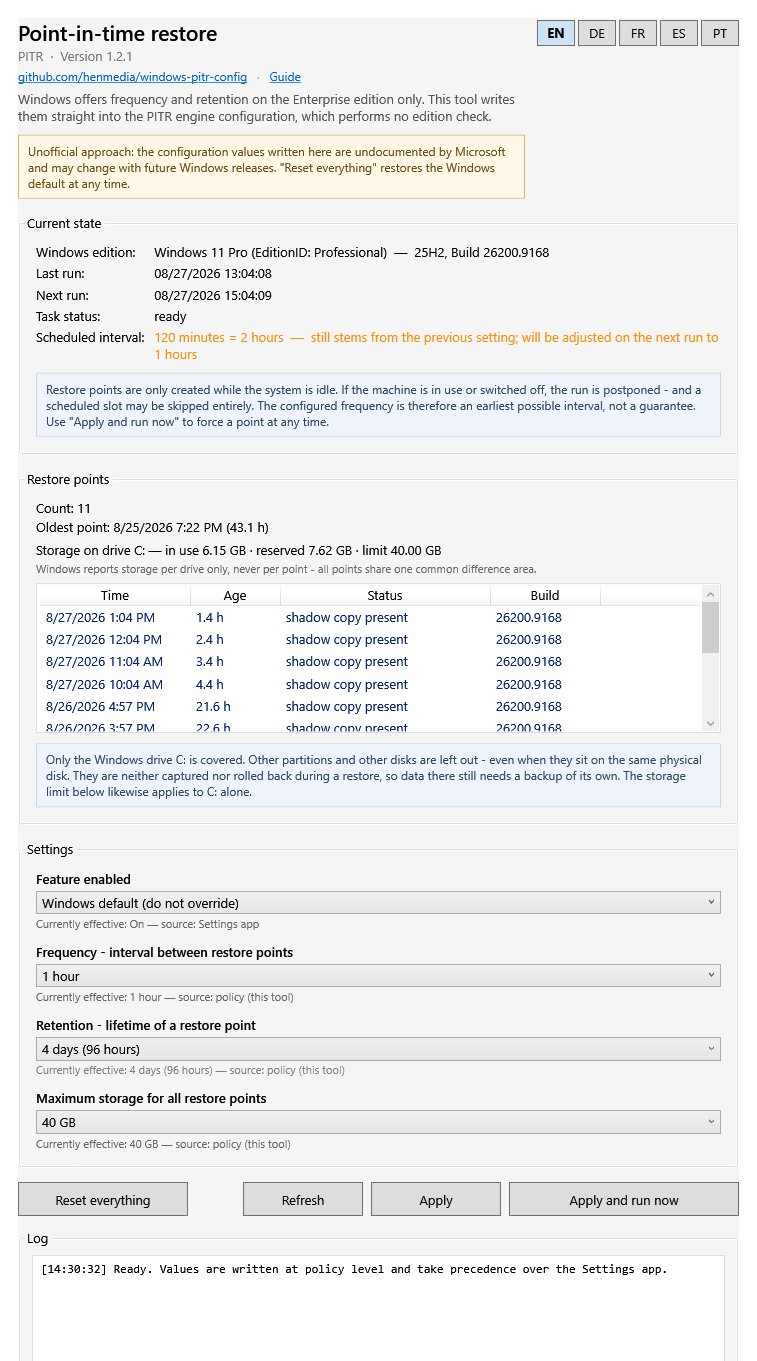
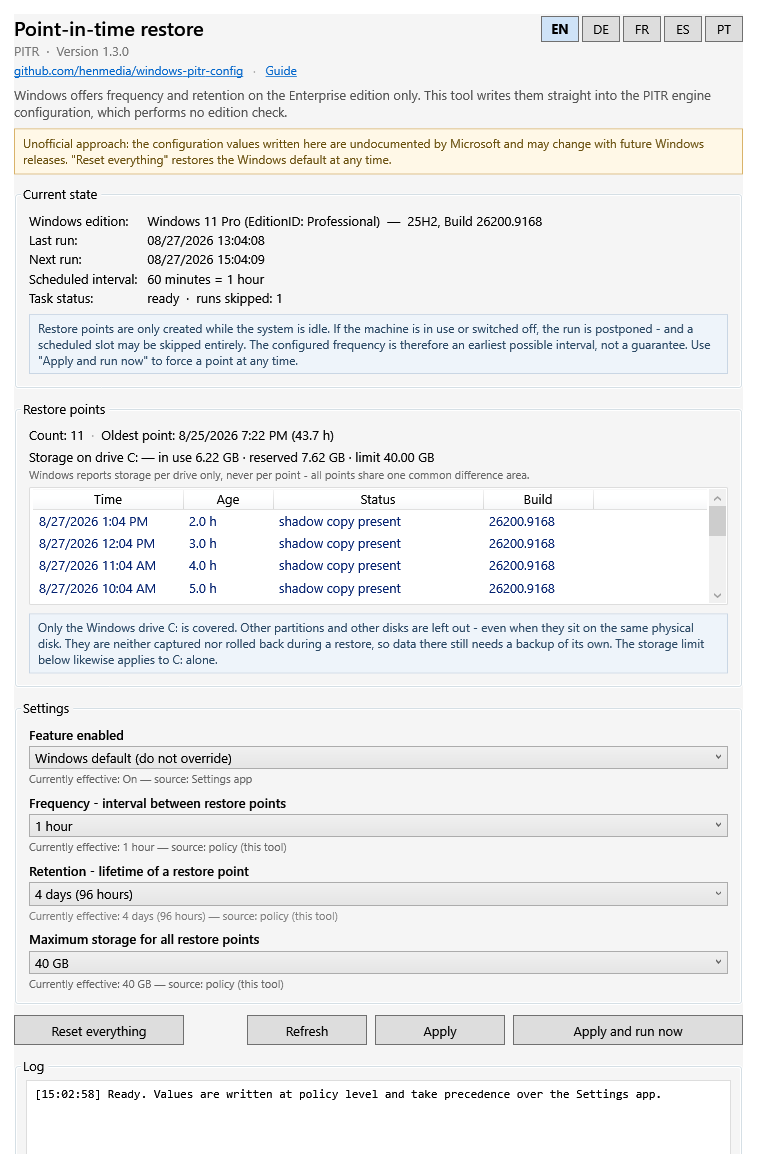
Read the scheduled interval from the trigger; compact, screen-aware window

diff --git a/CHANGELOG.md b/CHANGELOG.md
@@ -4,6 +4,35 @@ Notable changes are recorded here. The format follows
 [Keep a Changelog](https://keepachangelog.com/en/1.1.0/), and versions follow
 [Semantic Versioning](https://semver.org/spec/v2.0.0.html).
 
+## [1.3.0] — 2026-08-27
+
+### Fixed
+
+- The scheduled interval was computed as *next run minus last run*, which is only the
+  configured interval when no run is ever skipped. Since the task runs only while the system
+  is idle, skipped runs are the normal case — an hourly schedule then showed up as two hours,
+  with a misleading note claiming the value stemmed from a previous setting. The interval is
+  now read from the repetition of the task's time trigger, where it actually lives.
+
+### Added
+
+- Skipped runs are shown next to the task status. They are what explains a gap between two
+  restore points that is longer than the configured interval.
+
+### Changed
+
+- The window is no longer a fixed 880 pixels tall. It opens at 800 at most, and never taller
+  than the work area minus a margin — the work area excludes the taskbar, so the window can
+  no longer end up behind it. On a tall screen it grows beyond 800 if that lets the content
+  fit without scrolling, and it is re-centred on the work area afterwards.
+- The introduction and the "unofficial approach" notice now run the full width of the window.
+  They used to sit in the left column next to the language buttons, where they wrapped early
+  and left the area beneath the buttons empty.
+- The scheduled interval and the task status swapped places, and the restore point count now
+  shares a line with the oldest point.
+- Paddings, margins, the restore point list and the log box were tightened throughout. The
+  same content now needs roughly 200 pixels less height.
+
 ## [1.2.1] — 2026-08-27
 
 ### Fixed
